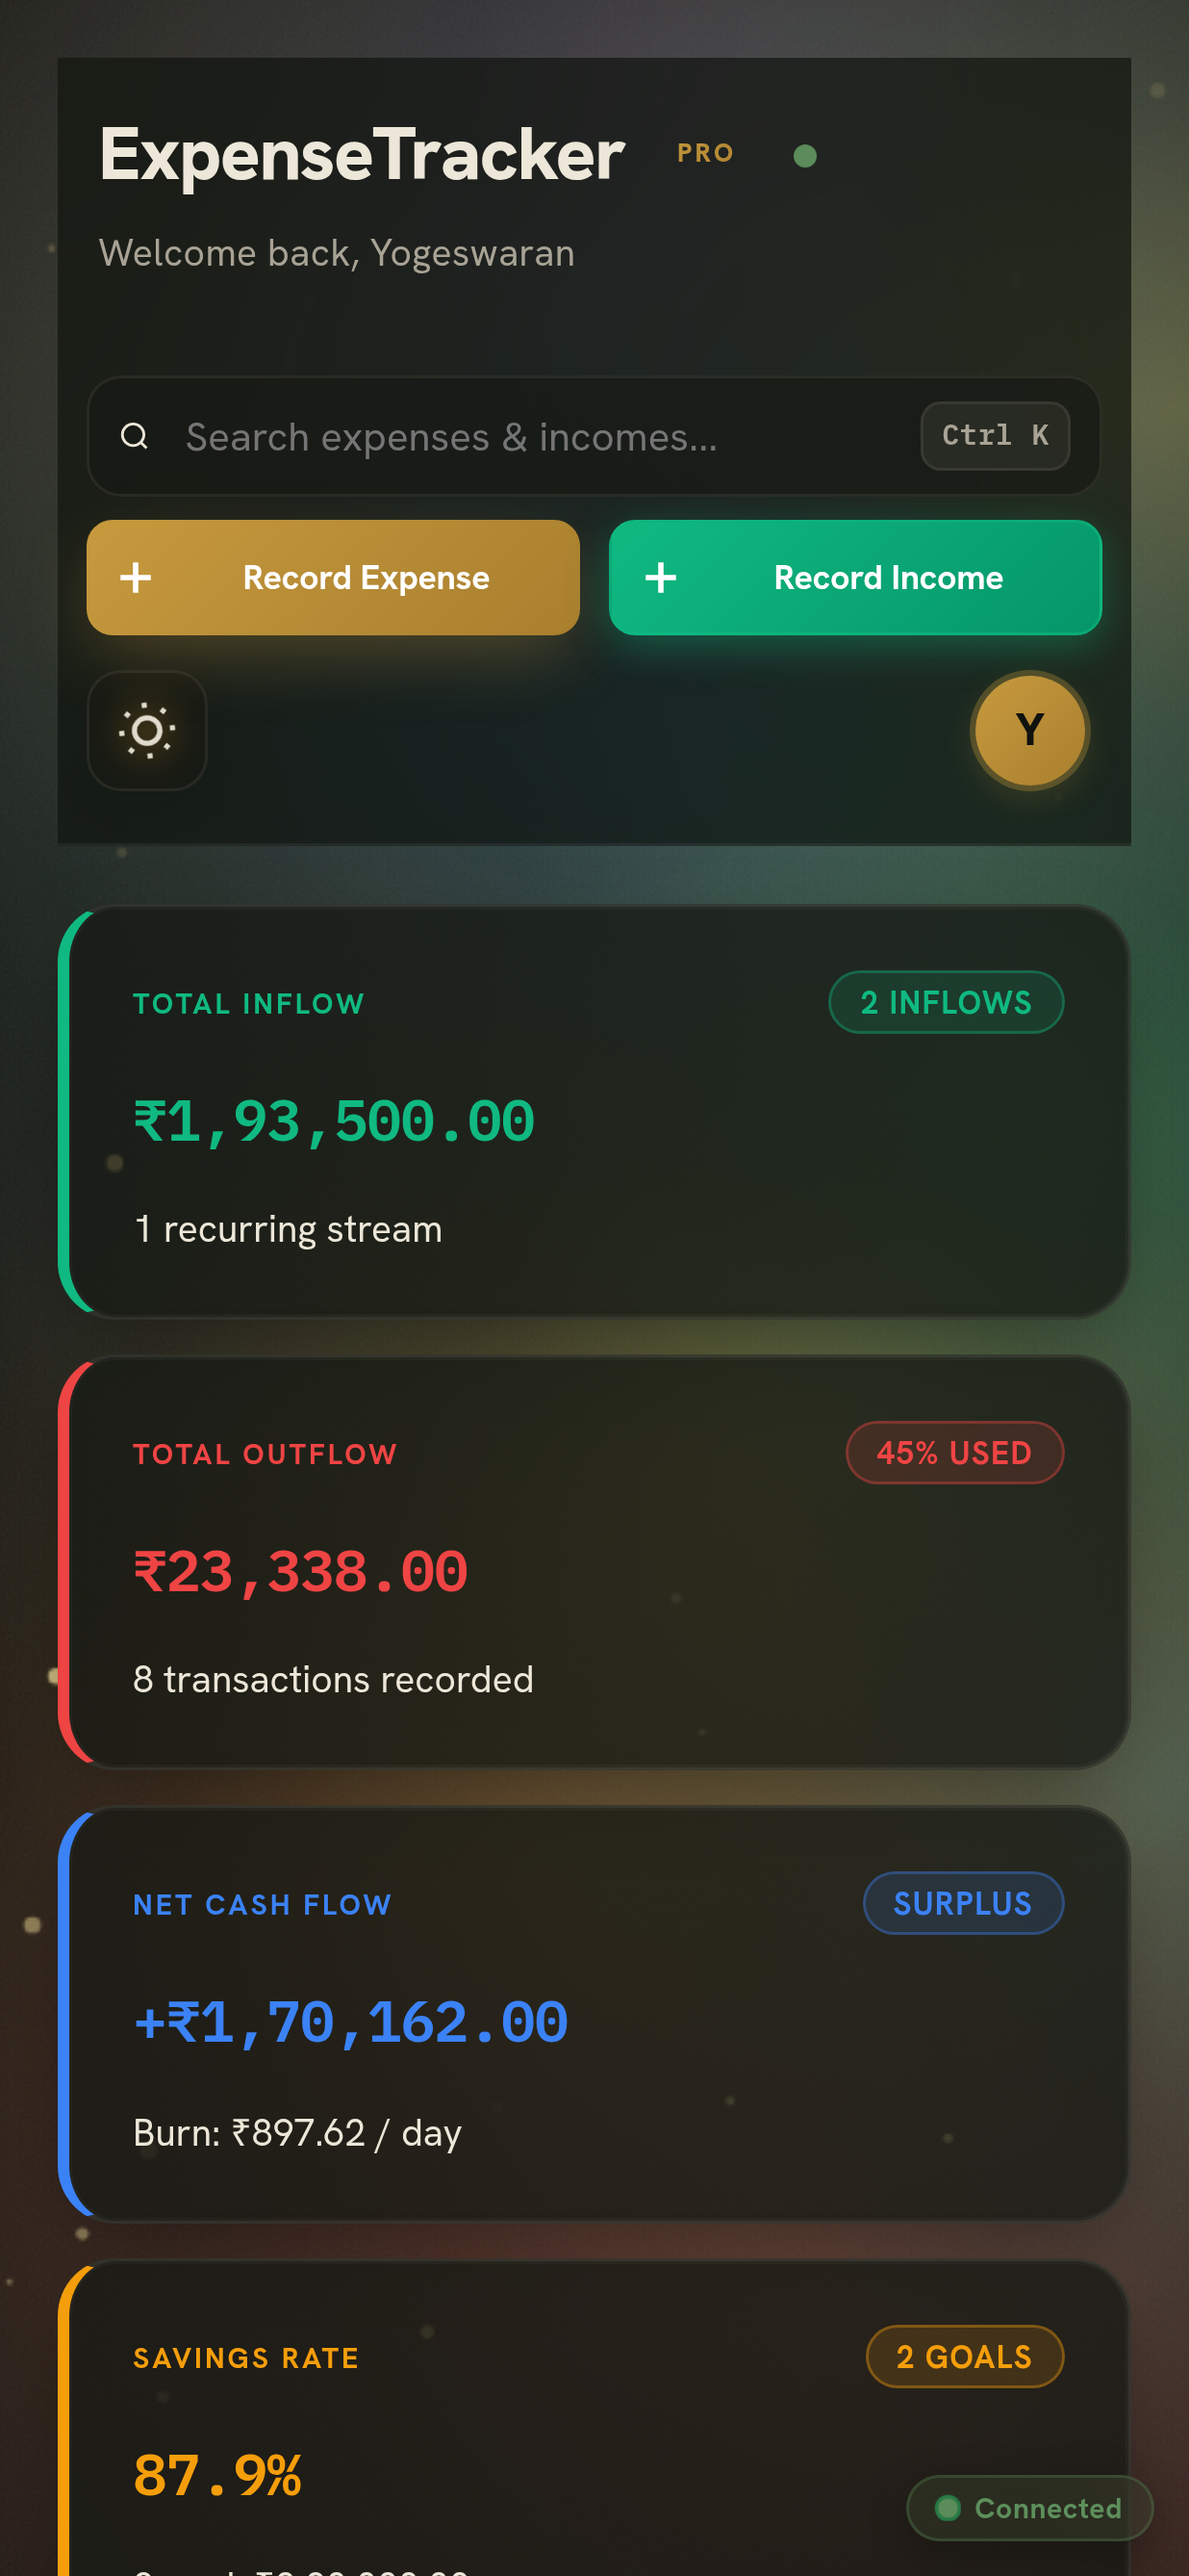
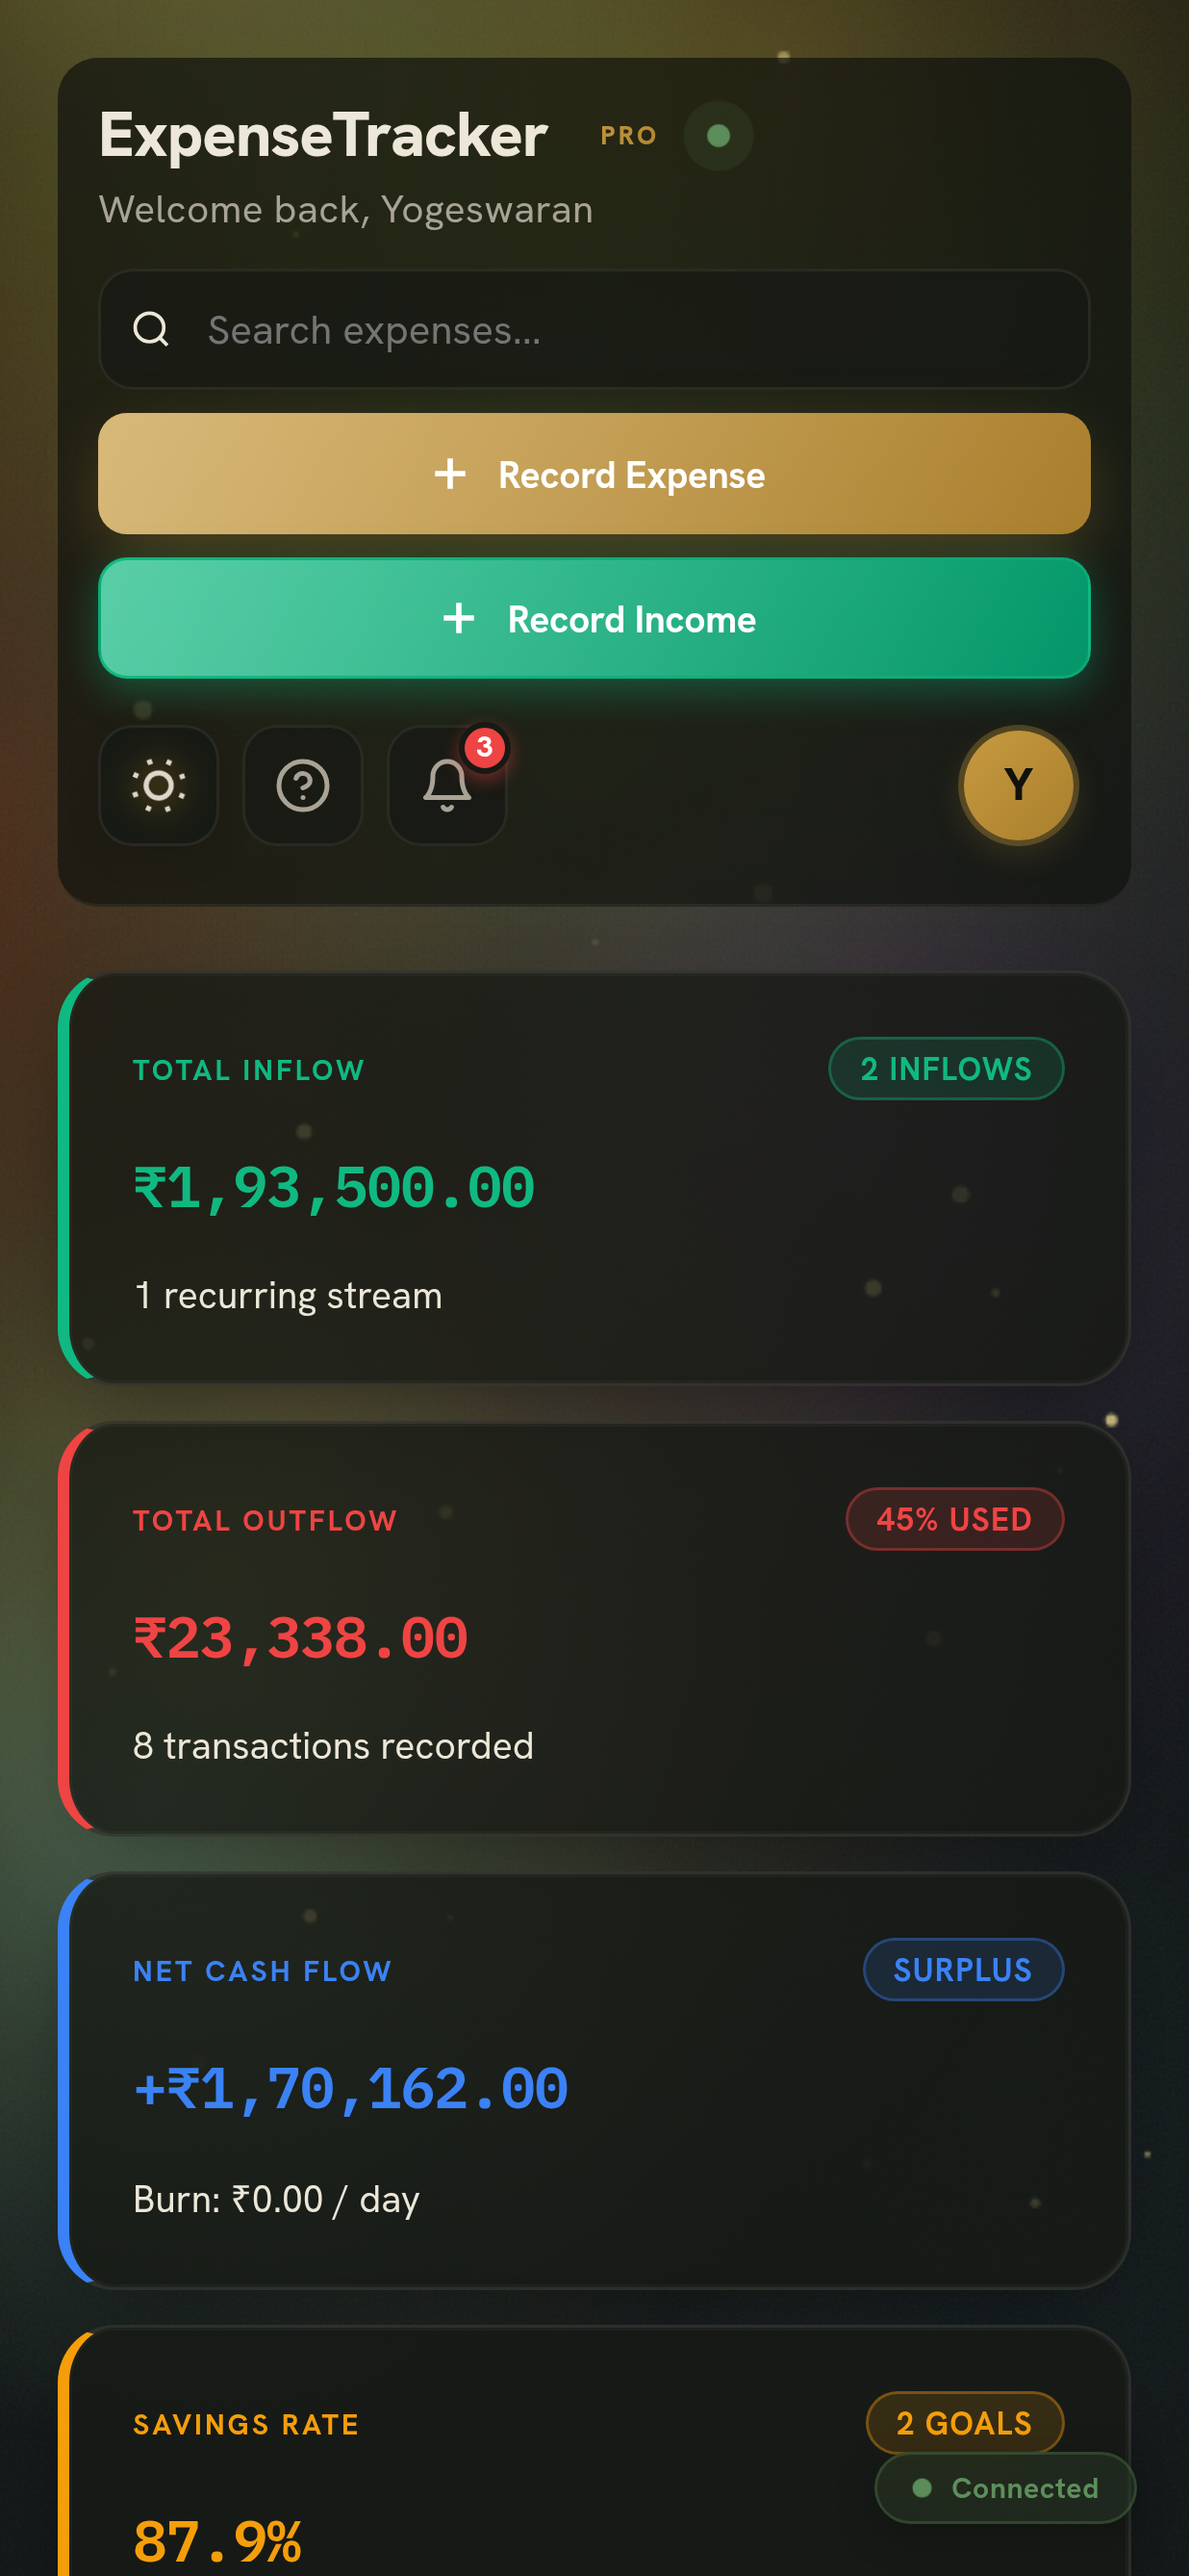
docs: update READMEs, refresh web & mobile screenshots, bump app version to 1.0.4 (code 6), and generate release notes

diff --git a/mobile/scripts/generate-release-notes.js b/mobile/scripts/generate-release-notes.js
@@ -27,8 +27,8 @@ function main() {
   const ipaShaPath = path.join(baseDir, 'expense-tracker.ipa.sha256');
   const outputPath = path.join(baseDir, 'release-notes.md');
 
-  let version = '1.0.3';
-  let versionCode = 5;
+  let version = '1.0.4';
+  let versionCode = 6;
   let packageId = 'com.yoge.expensetracker';
   let bundleId = 'com.yoge.expensetracker';
   if (fs.existsSync(appJsonPath)) {
@@ -65,51 +65,30 @@ function main() {
   const lines = [
     '# Expense Tracker Mobile v' + version,
     '',
-    'A release focused on **trustworthy financial reporting, filter-synchronized analytics, premium exports, responsive layouts, notifications, and CI reliability**.',
+    'A release focused on **bulk notification clearing, instant touch clearing UX, verified ML categorization, responsive theme animations, and polished financial reporting**.',
     '',
     '---',
     '',
-    "## What's New",
+    "## What's New in v" + version,
     '',
-    '### Dashboard Intelligence',
-    '- **Filters now drive the dashboard itself**, not only the transaction ledger: KPIs, cash-flow metrics, top category, insights, and financial charts use the same active search/category/date-filtered dataset.',
-    '- Search, category, Today, This Month, Last 30D, and Custom Range remain synchronized with the visible analytics.',
-    '- Dashboard calculations use the freshest persisted records after synchronization.',
+    '### Notification Management (Web & Mobile)',
+    '- Added **"Clear all notifications"** button in both the mobile app header and web dashboard inbox panel.',
+    '- Added backend bulk-clear API endpoint (`DELETE /api/notifications/user/{userId}`) with immediate unread count and badge counter reset.',
+    '- Protected bulk deletion with an in-app confirmation dialog to prevent accidental data loss.',
     '',
-    '### Executive Export Center',
-    '- Export now requires an explicit reporting period: **Month & Year**, **Custom Range**, or **All Time**.',
-    '- PDF and Excel reports are generated from **live backend ledger data at export time**, reducing stale-cache and missed-record exports.',
-    '- Custom ranges are passed directly to the backend reporting endpoints.',
+    '### Search UX & Soft Keyboard Touch Responsiveness',
+    '- Fixed search bar clear button in mobile app: tapping the **X** icon now clears the input immediately on the first touch without requiring an extra tap to retract the keyboard.',
+    '- Enabled `keyboardShouldPersistTaps="handled"` on scroll views and currency lists, paired with `onPressIn` and expanded hit slop.',
     '',
-    '### Premium PDF Report',
-    '- Executive KPI block for spend, income, net cash flow, and transaction count.',
-    '- Management-oriented insights including largest cost centre, average transaction value, and cash-flow interpretation.',
-    '- Category breakdown with spend share.',
-    '- Full transaction ledger for the selected reporting period.',
-    '- Clean financial typography with no decorative glyph/icon noise.',
+    '### Machine Learning & SMS Expense Categorization',
+    '- Connected automated SMS notification listeners with ML inference categorizer for credit and debit transaction tracking.',
+    '- Hardened ML training pipelines, promotion gates, and dataset loading routines for continuous model retraining.',
+    '- Verified model publishing to Hugging Face Model Hub and serving Space sync; all 51 ML pytest suites passing with headless Agg plotting.',
     '',
-    '### Power BI-Inspired Excel Workbook',
-    '- **Executive Dashboard** sheet with headline KPIs and insights.',
-    '- **Category Analysis** sheet with spend, share, transaction count, and average transaction value.',
-    '- **Transactions** sheet with a clean audit-friendly ledger.',
-    '- **Cash Flow** sheet with monthly income, spend, and net movement.',
-    '- Removed the previous glyph-heavy presentation in favour of a restrained executive reporting layout.',
-    '',
-    '### Download Experience',
-    "- Export completion is routed through the app's custom alert UI instead of relying on the native Android download-success alert.",
-    '- Export filenames include the selected reporting period.',
-    '',
-    '### Notifications & Responsive App',
-    '- Android notification icon/channel configuration is aligned with the app visual identity.',
-    '- iOS notification configuration is included in the Expo project; a final iOS IPA still depends on Apple Developer credentials being available to EAS.',
-    '- Native orientation is now configured for default orientation, enabling landscape-aware layouts.',
-    '- Calendar/date-selection controls were hardened against narrow-screen overflow.',
-    '',
-    '### Build & Delivery Reliability',
-    "- GitHub Actions now use the Node 24-compatible action generations required ahead of GitHub's Node 20 removal.",
-    '- EAS CLI and Expo Doctor versions are pinned for reproducible mobile builds.',
-    '- Backend report compilation is covered by CI.',
-    '- Spring Boot production JAR delivery can be published to the Hugging Face backend Space from GitHub Actions when the repository has an HF_TOKEN write secret.',
+    '### Theme Switching & Visual Refinements',
+    '- Fixed theme toggle 360-degree rotation animation so the moon icon maintains an upright position across theme toggles.',
+    '- Corrected Savings Retention Rate percentage formatting in executive Excel workbooks.',
+    '- Resolved Java 21 IDE inspections in `ExportServiceImpl` with modern record constructs and optimized collections.',
     '',
     '---',
     '',

diff --git a/mobile/services/appUpdate.ts b/mobile/services/appUpdate.ts
@@ -28,7 +28,7 @@ export interface DownloadProgress {
   percent: number;
 }
 
-export const CURRENT_APP_VERSION = Constants.expoConfig?.version || '1.0.3';
+export const CURRENT_APP_VERSION = Constants.expoConfig?.version || '1.0.4';
 export const DISPLAY_VERSION = `v${CURRENT_APP_VERSION}`;
 
 /**
@@ -66,7 +66,7 @@ export async function checkForAppUpdate(): Promise<AppReleaseInfo> {
     }
 
     const data = await response.json();
-    const latestTag = data.tag_name || 'v1.0.3';
+    const latestTag = data.tag_name || 'v1.0.4';
     const releaseName = data.name || latestTag;
     const releaseUrl = data.html_url || fallbackUrl;
     const releaseNotes = (data.body || '').trim();

diff --git a/RELEASE_NOTES.md b/RELEASE_NOTES.md
@@ -1,0 +1,43 @@
+# Expense Tracker Release Notes
+
+## Version 1.0.4 (Android Version Code: 6)
+
+A major release focused on **bulk notification clearing, instant touch search responsiveness, verified ML model retraining loops & Hugging Face Hub synchronization, theme transition perfection, and executive financial reporting**.
+
+---
+
+### Key Highlights
+
+#### 1. Notification Management (Web & Mobile)
+- **Clear All Notifications**: Users can now clear their entire notification inbox with a single action on both the website dashboard and mobile app.
+- **Backend Bulk Clearing**: Added `@DeleteMapping` at `/api/notifications/user/{userId}` calling `AppNotificationRepository.deleteByUser(User user)`.
+- **Instant Badge Counter Synchronization**: Cleared notifications immediately update the bell badge count and notification trays in real-time.
+- **Safety Safeguard**: Confirmation dialogs prevent accidental bulk deletion on mobile (`useAlert()`) and desktop web.
+
+#### 2. Search UX & Keyboard Responsiveness
+- **Single-Tap 'X' Clearing**: Fixed search bar clear button in the mobile app where tapping the **X** icon previously retracted the keyboard instead of clearing text.
+- **Handled Tap Persistence**: Added `keyboardShouldPersistTaps="handled"` on scroll views and currency picker modals, combined with `onPressIn` and expanded hit slop.
+
+#### 3. Machine Learning & Automated Model Publishing
+- **SMS Financial Categorization**: Wired automated SMS listeners for credit/inflow and debit transactions to the Hugging Face hosted ML inference service.
+- **Model Training Loops**: Verified end-to-end dataset preparation, stratified splitting, TF-IDF / Transformer training, evaluation gates, and metadata manifest generation.
+- **Hugging Face Repository Publishing**: Verified candidate evaluation gates (accuracy & macro F1 thresholds), automated branch creation, and artifact upload to the model repository (`Yoge-2004/expense-intelligence-model`) and serving Space restart.
+- **Test Suite Health**: All 51 ML pytest tests passing seamlessly with headless Agg plotting backend.
+
+#### 4. Visual & Financial Export Refinements
+- **Theme Switcher Rotation**: Corrected 360-degree rotation animation so the dark-mode moon icon remains upright instead of inverting to -180 degrees.
+- **Excel Formatting**: Formatted Savings Retention Rate percentage accurately in executive Excel workbooks.
+- **Code Cleanliness**: Cleaned modern Java 21 inspections in `ExportServiceImpl` (`getFirst()`, record classes, unused style methods).
+
+---
+
+### Release Artifacts & Specifications
+
+| Attribute | Details |
+| :--- | :--- |
+| **Mobile App Version** | `1.0.4` |
+| **Android Version Code** | `6` |
+| **iOS Build Number** | `5` |
+| **Package ID** | `com.yoge.expensetracker` |
+| **Backend Framework** | Spring Boot 4.1.1 (Java 27 preview / 21) |
+| **ML Engine** | PyTorch / scikit-learn / Hugging Face Hub |

diff --git a/README.md b/README.md
@@ -47,7 +47,8 @@ The same backend powers the web and mobile clients, keeping finance data and bus
 | **Theme & UI** | Diffused golden aura elevation across Dark & Light modes, custom HUD cursor, and `Ctrl`/`Cmd` + `K` Command Palette. |
 | **Authentication** | JWT-based authentication, Google sign-in, WebAuthn/passkeys, and biometric unlock (Face ID / Fingerprint). |
 | **Profile & Settings** | Display name sync across web/app, 6-digit security PIN for instant recovery, and multi-currency selection. |
-| **Machine Learning** | Dual-engine ML categorization (TF-IDF + Transformer) with interactive tester and continuous retraining feedback loop. |
+| **Notifications** | Real-time push alerts, financial event digest, per-type preferences, and one-click bulk inbox clearing on web and mobile. |
+| **Machine Learning** | Dual-engine ML categorization (TF-IDF + Transformer), automated SMS financial alert listener, interactive tester, and continuous retraining feedback loop. |
 | **Persistence** | H2 for development, SQLite client-encrypted fallback, and PostgreSQL / Neon for production. |
 | **Data resilience** | Zero-downtime offline caching, network retry fallbacks, and Hugging Face Hub snapshot sync. |
 
@@ -340,6 +341,9 @@ Expense Tracker integrates an automated, continuous intelligence machine learnin
 - **Hugging Face Model Registry & Auto-Rollback**:
   - Models versioned immutably as `v<run-id>` with an alias pointing to `production`.
   - Zero-downtime serving space restarts with instantaneous health probes and immediate fallback if a model fails validation.
+- **Automated SMS Financial Alert Categorization**:
+  - Mobile background listener detects bank debit/credit transaction notifications.
+  - Automatically parses amounts and passes merchant/counterparty text to the ML categorization pipeline for instant zero-touch bookkeeping.
 
 ![AI Smart Categorizer and Insights Dashboard](docs/images/website/dashboard.png)
 
@@ -1002,9 +1006,9 @@ docs/images/
 
 # 📦 Releases
 
-Download the latest Android builds, view release notes, checksums, and previous versions from the official GitHub Releases page.
+Download the latest Android builds (**v1.0.4**, Version Code **6**), view release notes, checksums, and previous versions from the official GitHub Releases page or read [RELEASE_NOTES.md](RELEASE_NOTES.md).
 
-**👉 [View all releases](https://github.com/Yoge-2004/expense-tracker/releases)**
+**👉 [View all releases (v1.0.4)](https://github.com/Yoge-2004/expense-tracker/releases)**
 
 ---
 

diff --git a/mobile/release-notes.md b/mobile/release-notes.md
@@ -1,0 +1,50 @@
+# Expense Tracker Mobile v1.0.4
+
+A release focused on **bulk notification clearing, instant touch clearing UX, verified ML categorization, responsive theme animations, and polished financial reporting**.
+
+---
+
+## What's New in v1.0.4
+
+### Notification Management (Web & Mobile)
+- Added **"Clear all notifications"** button in both the mobile app header and web dashboard inbox panel.
+- Added backend bulk-clear API endpoint (`DELETE /api/notifications/user/{userId}`) with immediate unread count and badge counter reset.
+- Protected bulk deletion with an in-app confirmation dialog to prevent accidental data loss.
+
+### Search UX & Soft Keyboard Touch Responsiveness
+- Fixed search bar clear button in mobile app: tapping the **X** icon now clears the input immediately on the first touch without requiring an extra tap to retract the keyboard.
+- Enabled `keyboardShouldPersistTaps="handled"` on scroll views and currency lists, paired with `onPressIn` and expanded hit slop.
+
+### Machine Learning & SMS Expense Categorization
+- Connected automated SMS notification listeners with ML inference categorizer for credit and debit transaction tracking.
+- Hardened ML training pipelines, promotion gates, and dataset loading routines for continuous model retraining.
+- Verified model publishing to Hugging Face Model Hub and serving Space sync; all 51 ML pytest suites passing with headless Agg plotting.
+
+### Theme Switching & Visual Refinements
+- Fixed theme toggle 360-degree rotation animation so the moon icon maintains an upright position across theme toggles.
+- Corrected Savings Retention Rate percentage formatting in executive Excel workbooks.
+- Resolved Java 21 IDE inspections in `ExportServiceImpl` with modern record constructs and optimized collections.
+
+---
+
+## Release & Artifact Summary
+
+| Attribute | Details |
+| :--- | :--- |
+| **Release Version** | 1.0.4 |
+| **Android Version Code** | 6 |
+| **Package ID** | com.yoge.expensetracker |
+| **iOS Bundle ID** | com.yoge.expensetracker |
+| **Commit SHA** | main |
+
+---
+
+## Installation
+
+1. Android: download the expense-tracker.apk asset from the release.
+2. Verify: optionally compare the published SHA-256 checksum with your downloaded APK.
+
+### Notes
+
+- Reports reflect the selected date range and the persisted server-side ledger at export time.
+- iOS build availability is credential-dependent; the Android release is the primary downloadable artifact when no Apple credentials are linked to EAS.

diff --git a/mobile/README.md b/mobile/README.md
@@ -14,9 +14,11 @@
 
 ## 📦 Releases & Downloads
 
-Official Android APK builds are published through GitHub Releases.
+Official Android APK builds (**v1.0.4**, Version Code **6**) are published through GitHub Releases.
 
-**👉 [Download / View Releases](https://github.com/Yoge-2004/expense-tracker/releases)**
+**👉 [Download / View Releases (v1.0.4)](https://github.com/Yoge-2004/expense-tracker/releases)**
+
+Read detailed changes in [RELEASE_NOTES.md](../RELEASE_NOTES.md) or [mobile/release-notes.md](release-notes.md).
 
 Each release contains the corresponding APK, checksums, version information, and release notes.
 
@@ -36,7 +38,7 @@ The mobile client lives in this directory and is built with **Expo 57, React Nat
 - Communicating with the Expense Tracker REST API.
 - Managing client-side authentication/session state.
 - Providing native Google Sign-In integration.
-- Supporting device-oriented capabilities included by the application, such as secure storage, haptics, document handling, sharing, notifications, and local authentication where used by the corresponding flows.
+- Supporting device-oriented capabilities included by the application, such as secure storage, haptics, document handling, sharing, notifications with one-tap bulk clearing, SMS financial alert listener for automated ML expense classification, and local authentication where used by the corresponding flows.
 
 <!-- IMAGE PLACEHOLDER: Full mobile app overview with 4–6 real screens. -->
 
